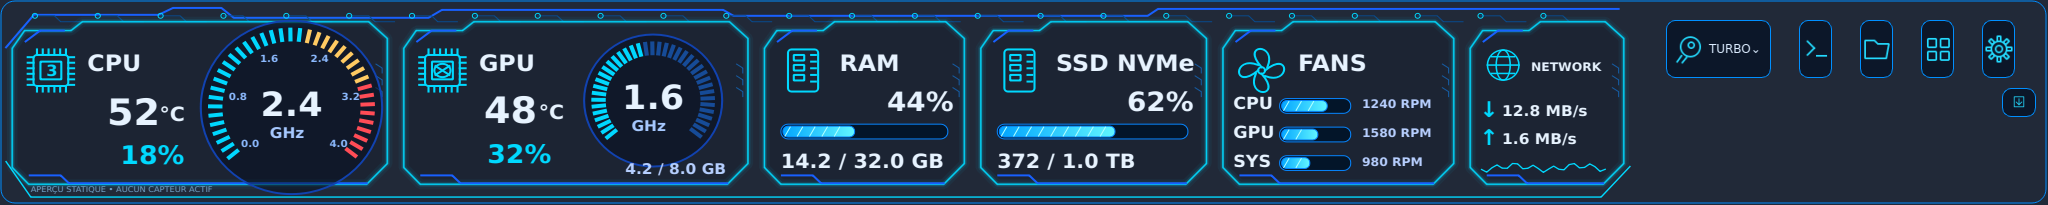
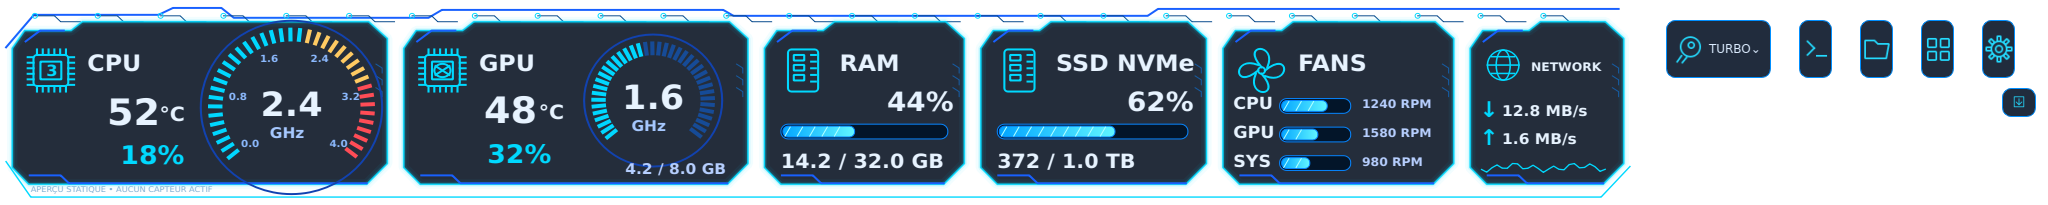
Keep desktop background fully transparent and control opacity of module fills only

diff --git a/src/healthbar/hud.py b/src/healthbar/hud.py
@@ -37,14 +37,20 @@ def outline(p, path, fill=None):
         p.setBrush(Qt.BrushStyle.NoBrush)
 
 
-def panel(p, x, w):
+def module_background(opacity):
+    color = QColor("#061020")
+    color.setAlpha(round(255*opacity/100))
+    return color
+
+
+def panel(p, x, w, background):
     path = QPainterPath()
     path.addPolygon(QPolygonF([QPointF(x+20, 27), QPointF(x+65, 27),
         QPointF(x+76, 18), QPointF(x+w-26, 18), QPointF(x+w-8, 35),
         QPointF(x+w-8, 162), QPointF(x+w-28, 183), QPointF(x+24, 183),
         QPointF(x+8, 166), QPointF(x+8, 45)]))
     path.closeSubpath()
-    outline(p, path, "#30061020")
+    outline(p, path, background)
     line(p, [(x+21, 38), (x+35, 27), (x+58, 27)], BLUE, 2)
     line(p, [(x+25, 174), (x+55, 174), (x+63, 182), (x+w-28, 182)], BLUE, 2)
     for i in range(3):
@@ -111,7 +117,7 @@ def meter(p, x, y, w, ratio):
 
 
 def gauge(p, cx, cy, radius, value, unit, warm=False):
-    p.setBrush(QColor("#80050e20"))
+    p.setBrush(Qt.BrushStyle.NoBrush)
     p.setPen(QPen(QColor("#1142b0"), 2))
     p.drawEllipse(QPointF(cx, cy), radius+9, radius+9)
     for j in range(39):
@@ -137,6 +143,7 @@ class HudCanvas(QWidget):
         super().__init__(parent)
         self.registry = registry
         self.vertical = vertical
+        self.module_opacity = 88
         self.labels = {}
         self.refresh_plugins()
         self.setToolTip("Aperçu statique du prototype — aucune mesure matérielle active")
@@ -170,7 +177,7 @@ class HudCanvas(QWidget):
                     (730, 210, "ram", "RAM"), (940, 235, "storage", "SSD NVMe"),
                     (1175, 240, "fans", "FANS"), (1415, 165, "network", "NETWORK")]
         for x, w, kind, title in sections:
-            panel(p, x, w)
+            panel(p, x, w, module_background(self.module_opacity))
             icon(p, kind, x+23, 45, 45 if kind != "network" else 34)
             text(p, x+(67 if kind == "network" else 81), 68,
                  self.labels.get(kind, title)[:13], 12 if kind == "network" else 23)
@@ -212,7 +219,7 @@ class HudCanvas(QWidget):
             x, y = (i % columns)*cell_w, (i // columns)*cell_h
             path = QPainterPath()
             path.addRoundedRect(QRectF(x+3, y+3, cell_w-7, cell_h-7), 8, 8)
-            outline(p, path, "#30061020")
+            outline(p, path, module_background(self.module_opacity))
             icon(p, kind, x+12, y+10, 21)
             text(p, x+42, y+26, self.labels.get(kind, label)[:12], 12)
             text(p, x+12, y+cell_h-15, value, 12 if cell_w < 210 else 16)
@@ -232,7 +239,7 @@ class HudCanvas(QWidget):
                 QPointF(234, y+16), QPointF(234, y+cell-16), QPointF(222, y+cell-4),
                 QPointF(16, y+cell-4), QPointF(6, y+cell-16), QPointF(6, y+16)]))
             path.closeSubpath()
-            outline(p, path, "#30061020")
+            outline(p, path, module_background(self.module_opacity))
             icon_size = 25 if cell < 95 else 34
             icon(p, kind, 20, y+13, icon_size)
             text(p, 62, y+33, self.labels.get(kind, title)[:13], 18)

diff --git a/tests/test_foundation.py b/tests/test_foundation.py
@@ -150,6 +150,31 @@ class ShellTests(unittest.TestCase):
             self.app.processEvents()
             self.assertFalse(self.bar.grab().isNull())
 
+    def test_background_is_clear_and_only_module_fills_follow_opacity(self):
+        from PySide6.QtCore import QPoint
+        for opacity in (0, 35, 100):
+            self.settings.opacity = opacity
+            self.bar.apply_settings()
+            self.bar.resize(2048, 200)
+            self.app.processEvents()
+            image = self.bar.grab().toImage()
+            canvas = self.bar.canvas
+            inside = canvas.mapTo(self.bar, QPoint(int(80*canvas.width()/1580),
+                                                   int(90*canvas.height()/200)))
+            blank = self.bar.actions.mapTo(self.bar, QPoint(10, 150))
+            button_fill = self.bar.turbo.mapTo(self.bar, QPoint(8, 40))
+            self.assertEqual(image.pixelColor(0, 0).alpha(), 0)
+            self.assertEqual(image.pixelColor(blank).alpha(), 0)
+            self.assertAlmostEqual(image.pixelColor(inside).alpha(), round(255*opacity/100), delta=1)
+            self.assertAlmostEqual(image.pixelColor(button_fill).alpha(), round(255*opacity/100), delta=1)
+            # Text remains visible even when the module background is completely clear.
+            text_rect = QRect(int(100*canvas.width()/1580), int(98*canvas.height()/200),
+                              int(48*canvas.width()/1580), int(26*canvas.height()/200))
+            opaque_text = sum(image.pixelColor(canvas.mapTo(self.bar, QPoint(x, y))).alpha() == 255
+                              for x in range(text_rect.left(), text_rect.right())
+                              for y in range(text_rect.top(), text_rect.bottom()))
+            self.assertGreater(opaque_text, 50)
+
     def test_retract_and_reveal_geometry(self):
         self.settings.auto_hide = True
         with patch('healthbar.app.QCursor.pos', return_value=self.bar.full_rect.bottomRight() * 10):

diff --git a/src/healthbar/app.py b/src/healthbar/app.py
@@ -160,6 +160,13 @@ class Bar(QWidget):
                         g.width() if vertical else g.height())
         thickness = int(thickness)
         self.canvas.vertical = vertical
+        self.canvas.module_opacity = self.settings.opacity
+        self.canvas.update()
+        alpha = round(255*self.settings.opacity/100)
+        self.actions.setStyleSheet(f"""
+            QPushButton#nav {{ background: rgba(2,15,34,{alpha}); }}
+            QPushButton#nav:hover {{ background: rgba(11,52,90,{alpha}); }}
+        """)
         self.root.setDirection(QHBoxLayout.Direction.TopToBottom if vertical else QHBoxLayout.Direction.LeftToRight)
         self.actions.setFixedWidth(thickness-12 if vertical else min(400, max(290, g.width()//5)))
         if vertical:
@@ -187,12 +194,9 @@ class Bar(QWidget):
 
     def paintEvent(self, event):
         p = QPainter(self)
-        p.setRenderHint(QPainter.RenderHint.Antialiasing)
-        bg = QColor("#020b1c")
-        bg.setAlpha(round(255*self.settings.opacity/100))
-        p.fillRect(self.rect(), bg)
-        p.setPen(QPen(QColor("#008dff"), 1))
-        p.drawRoundedRect(self.rect().adjusted(1, 1, -2, -2), 14, 14)
+        # Clear every pixel outside the modules; no shared panel or outer rectangle.
+        p.setCompositionMode(QPainter.CompositionMode.CompositionMode_Source)
+        p.fillRect(self.rect(), Qt.GlobalColor.transparent)
         p.end()
 
     def arm_hide(self):

diff --git a/src/healthbar/dialogs.py b/src/healthbar/dialogs.py
@@ -53,14 +53,14 @@ class SettingsDialog(QDialog):
         self.thickness.setSuffix(" px")
         form.addRow("Épaisseur", self.thickness)
         self.opacity = QSlider(Qt.Orientation.Horizontal)
-        self.opacity.setRange(20, 100)
+        self.opacity.setRange(0, 100)
         self.opacity.setValue(settings.opacity)
         self.opacity_label = QLabel(f"{settings.opacity} %")
         self.opacity.valueChanged.connect(lambda v: self.opacity_label.setText(f"{v} %"))
         row = QHBoxLayout()
         row.addWidget(self.opacity)
         row.addWidget(self.opacity_label)
-        form.addRow("Opacité du fond", row)
+        form.addRow("Opacité des modules", row)
         self.auto_hide = QCheckBox("Rétracter après 15 s sans survol")
         self.auto_hide.setChecked(settings.auto_hide)
         form.addRow("Rétractation", self.auto_hide)

diff --git a/src/healthbar/config.py b/src/healthbar/config.py
@@ -31,7 +31,7 @@ class Settings:
     def validate(self):
         if self.position not in ("top", "bottom", "right"):
             raise ValueError("Position invalide")
-        for name, lo, hi in (("thickness", 120, 360), ("opacity", 20, 100),
+        for name, lo, hi in (("thickness", 120, 360), ("opacity", 0, 100),
                              ("hide_seconds", 3, 120), ("screen", 0, 64)):
             value = getattr(self, name)
             if type(value) is not int or not lo <= value <= hi:

diff --git a/README.md b/README.md
@@ -11,7 +11,7 @@ Une barre de bureau transparente, sur toute la longueur de l’écran, avec ses 
 - Fenêtre sans bordure, au-dessus des autres fenêtres ; dessin vectoriel haute résolution.
 - Cadres CPU / GPU / RAM / SSD / ventilateurs / réseau et jauges **statiques de démonstration**.
 - Boutons à droite : Turbo (menu réservé), console (réservée), dossier, extensions, réglages.
-- Première ouverture guidée : écran, position haut / bas / droite, épaisseur, opacité du fond,
+- Première ouverture guidée : écran, position haut / bas / droite, épaisseur, opacité des modules,
   rétractation et lancement à l’ouverture de session.
 - Rétractation après 15 secondes sans survol ; bord de rappel de 4 px ; retour au survol.
 - Bouton carré avec flèche pour agrandir la barre. Affichage compact aux petites résolutions.

diff --git a/docs/ARCHITECTURE.md b/docs/ARCHITECTURE.md
@@ -25,7 +25,8 @@ scripts/
 
 Le shell connaît les emplacements et leur présentation. Il n’accède pas au matériel.
 HudCanvas dessine les éléments du prototype avec QPainter ; aucune image de bureau n’est embarquée
-comme fond de fenêtre. Le fond du HUD est translucide et l’opacité n’affaiblit pas le texte.
+comme fond de fenêtre. Le fond général est entièrement transparent. Seuls les fonds des modules et boutons
+ont une opacité réglable de 0 à 100 % ; les textes, icônes et contours gardent leur lisibilité.
 Les valeurs dessinées sont volontairement constantes et signalées comme telles.
 Les six slots sont cpu, gpu, ram, storage, fans, network ; Turbo et la console sont réservés.
 

diff --git a/docs/VALIDATION.md b/docs/VALIDATION.md
@@ -22,3 +22,6 @@ Les avertissements Qt « propagateSizeHints / raise » sont propres au plugin de
 Restent à vérifier sur machines réelles : composition transparente, multiécran avec DPI différents,
 interaction avec les bureaux/panneaux, autostart à la reconnexion, installateurs Windows/macOS,
 Bazzite/Wayland et plein écran. Le pipeline de builds n’équivaut pas à ces tests manuels.
+
+Correction de transparence : test pixel alpha du fond général à 0 et des fonds de modules/boutons
+à 0 %, 35 % et 100 %, avec maintien des textes opaques. 11 tests locaux passent.
